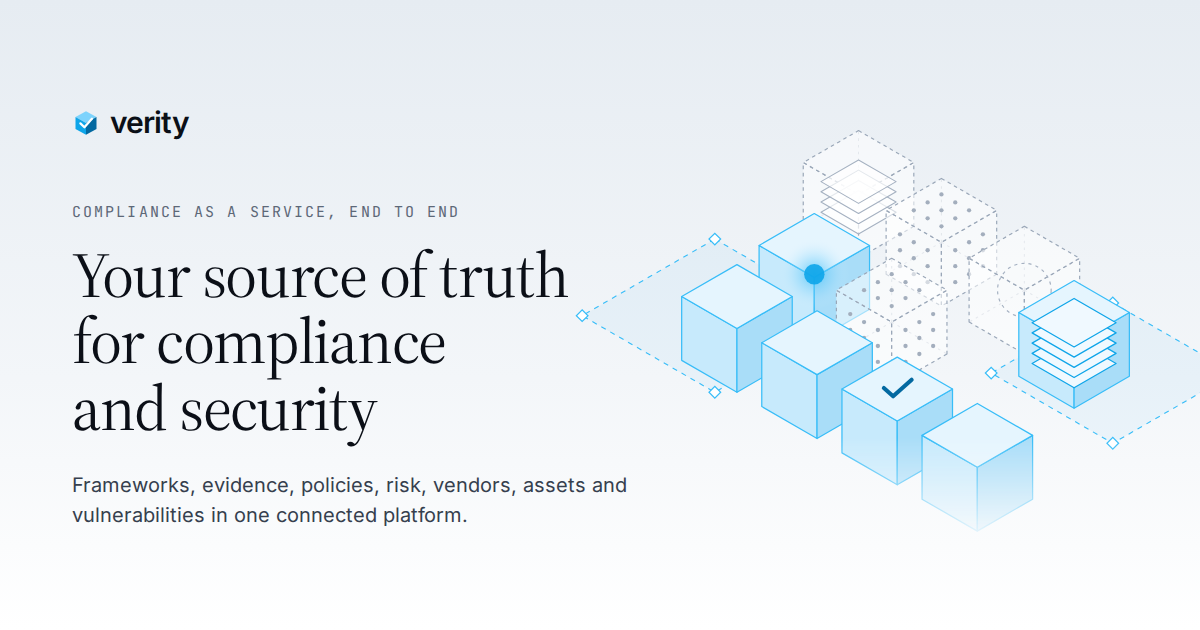
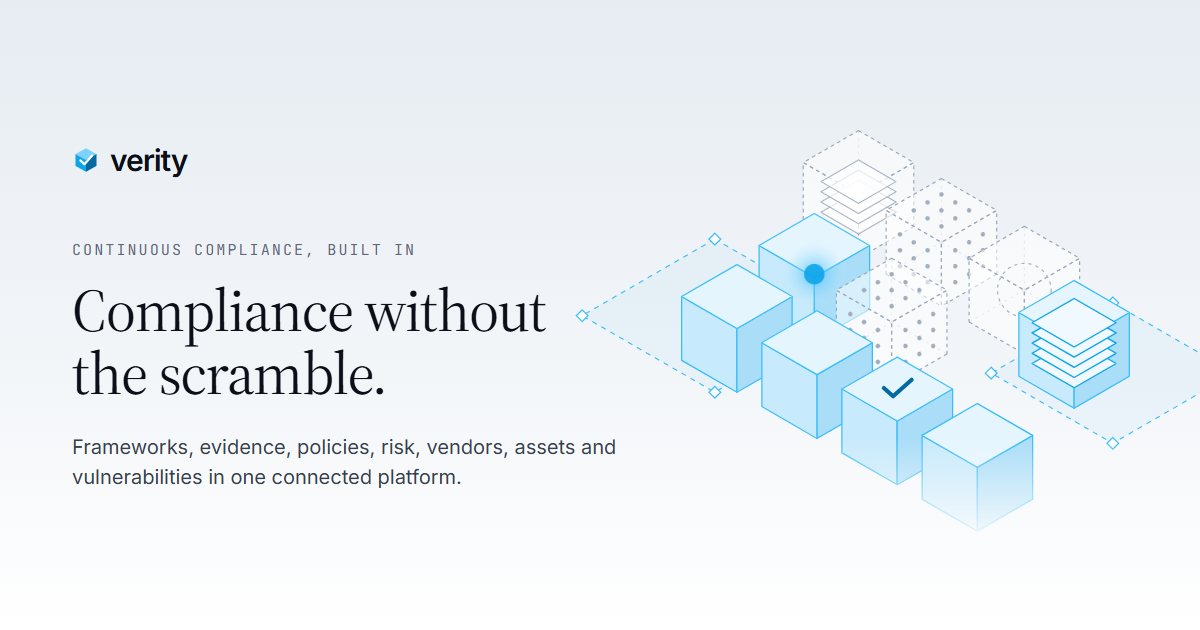
feat(website): new homepage hero copy
Eyebrow "Continuous compliance, built in", headline "Compliance without the scramble." and the
new supporting line, in content/home.ts where the homepage copy lives.

The social card (og.png) repeated the old headline, so it is regenerated, and its alt text in the
layout matches. scripts/generate-og.mjs now reads the eyebrow and headline from the page instead of
carrying its own copy, so the card and the hero cannot drift apart. It also waits for hydration
before drawing the card (React redrew the page over it) and sets the headline at 60px, so the
shorter two-line headline does not run into the artwork.

diff --git a/website/content/home.ts b/website/content/home.ts
@@ -8,9 +8,9 @@ import type { IconName } from "@/components/ui/icon";
  */
 
 export const hero = {
-  eyebrow: "Compliance as a service, end to end",
-  title: "Your source of truth for compliance and security",
-  lead: "Verity brings your frameworks, controls, evidence, policies, risks, vendors and systems into one connected workspace. See what needs attention, prove what works, and walk into every audit ready.",
+  eyebrow: "Continuous compliance, built in",
+  title: "Compliance without the scramble.",
+  lead: "Automate evidence collection, track controls and risks, and stay continuously ready for audits across your organization.",
 };
 
 export const facts = {

diff --git a/website/app/layout.tsx b/website/app/layout.tsx
@@ -24,7 +24,7 @@ export const metadata: Metadata = {
     siteName: "Verity",
     title: "Verity | Compliance and security, end to end",
     description,
-    images: [{ url: "/og.png", width: 1200, height: 630, alt: "Verity: your source of truth for compliance and security" }],
+    images: [{ url: "/og.png", width: 1200, height: 630, alt: "Verity: compliance without the scramble" }],
   },
   twitter: { card: "summary_large_image" },
 };
